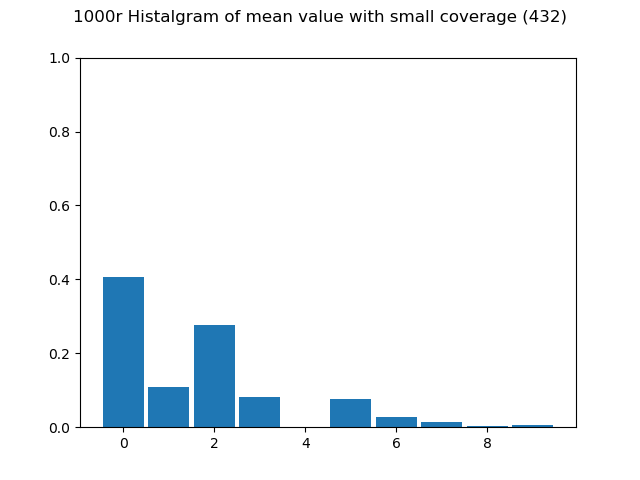
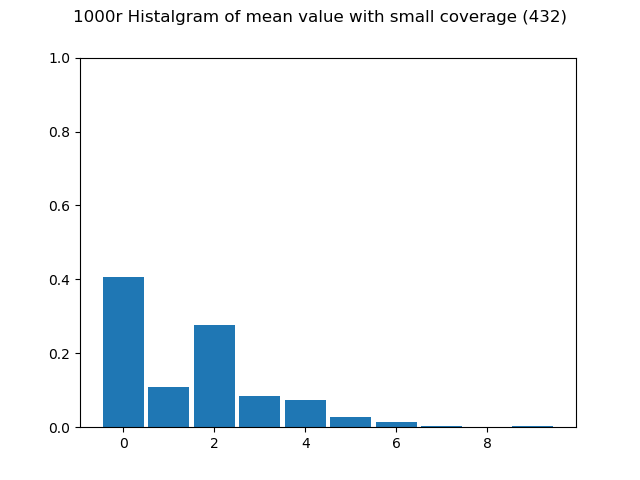
updating code/result

Changed region(s): [[0.4375, 0.8125, 0.7188, 0.9062]]

diff --git a/CI_analyze.py b/CI_analyze.py
@@ -1,8 +1,14 @@
 import numpy as np
 import math
 import random
+from scipy import stats
 from data_processing import*
 from data_processing import loadF
+
+# get variance info from index
+def get_variance_info(l, t, p):
+    var_list = loadF("process_data\\var_f_optVar"+str(p)+".pkl")
+    return var_list[l][t]
 
 # arrange float values into 10 intervals: 0-0.1, 0.1-0.2 ... 0.9-1
 def seperate_to_10(data):
@@ -97,7 +103,7 @@ def check_data(filename):
     print(np.mean(target_vals_list), len(target_vals_list))
 
 # get coverage for every case
-def get_info_coverage(filename):
+def get_info_coverage(filename, info_type):
     true_value_list,target_vals_list,clt_inrange,t_inrange,chi_inrange,f_inrange = loadF(filename)
     coverage_list_clt = np.zeros(1210)
     coverage_list_t   = np.zeros(1210)
@@ -125,35 +131,67 @@ def get_info_coverage(filename):
     overall_cov_f   = np.mean(coverage_list_f)
     print("overall coverage (clt,t,chi,f):",overall_cov_clt,overall_cov_t,overall_cov_chi,overall_cov_f)
     
-    cut_point_clt = np.percentile(coverage_list_clt, 0.49)
-    cut_point_t   = np.percentile(coverage_list_t, 0.49)
-    cut_point_chi = np.percentile(coverage_list_chi, 0.49)
-    cut_point_f   = np.percentile(coverage_list_f, 0.49)
-    
-    print("min of clt,t,chi,f ; 0.5 percentile:")
-    print(min(coverage_list_clt), cut_point_clt)
-    print(min(coverage_list_t), cut_point_t)
-    print(min(coverage_list_chi), cut_point_chi)
-    print(min(coverage_list_f), cut_point_f)
-    
-    ind_list_clt = []
-    ind_list_t   = []
-    ind_list_chi = []
-    ind_list_f   = [] 
-    
-    for i in range(1210):
-        if coverage_list_clt[i] <= cut_point_clt:
-            ind_list_clt.append(i)
-        if coverage_list_t[i] <= cut_point_t:
-            ind_list_t.append(i)
-        if coverage_list_chi[i] <= cut_point_chi:
-            ind_list_chi.append(i)
-        if coverage_list_f[i] <= cut_point_f:
-            ind_list_f.append(i)              
-            
-    print("indlist:",ind_list_clt,ind_list_t,ind_list_chi,ind_list_f)
-    saveF([ind_list_clt,ind_list_t,ind_list_chi,ind_list_f], "ind_"+str(int(len(target_vals_list)/1210))+"r.pkl")
-    print("ind_"+str(int(len(target_vals_list)/1210))+"r.pkl")
+    if info_type == "min":
+        cut_point_clt = np.percentile(coverage_list_clt, 0.49)
+        cut_point_t   = np.percentile(coverage_list_t, 0.49)
+        cut_point_chi = np.percentile(coverage_list_chi, 0.49)
+        cut_point_f   = np.percentile(coverage_list_f, 0.49)
+        
+        print("min of clt,t,chi,f ; 0.5 percentile:")
+        print(min(coverage_list_clt), cut_point_clt)
+        print(min(coverage_list_t), cut_point_t)
+        print(min(coverage_list_chi), cut_point_chi)
+        print(min(coverage_list_f), cut_point_f)
+        
+        ind_list_clt = []
+        ind_list_t   = []
+        ind_list_chi = []
+        ind_list_f   = [] 
+        
+        for i in range(1210):
+            if coverage_list_clt[i] <= cut_point_clt:
+                ind_list_clt.append(i)
+            if coverage_list_t[i] <= cut_point_t:
+                ind_list_t.append(i)
+            if coverage_list_chi[i] <= cut_point_chi:
+                ind_list_chi.append(i)
+            if coverage_list_f[i] <= cut_point_f:
+                ind_list_f.append(i)              
+                
+        print("indlist:",ind_list_clt,ind_list_t,ind_list_chi,ind_list_f)
+        saveF([ind_list_clt,ind_list_t,ind_list_chi,ind_list_f], "ind_"+str(int(len(target_vals_list)/1210))+"r.pkl")
+        print("ind_"+str(int(len(target_vals_list)/1210))+"r.pkl")
+        
+    else:
+        cut_point_clt = np.percentile(coverage_list_clt, 99.5)
+        cut_point_t   = np.percentile(coverage_list_t, 99.5)
+        cut_point_chi = np.percentile(coverage_list_chi, 99.5)
+        cut_point_f   = np.percentile(coverage_list_f, 99.5)
+        
+        print("max of clt,t,chi,f ; 99.5 percentile:")
+        print(max(coverage_list_clt), cut_point_clt)
+        print(max(coverage_list_t), cut_point_t)
+        print(max(coverage_list_chi), cut_point_chi)
+        print(max(coverage_list_f), cut_point_f)
+        
+        ind_list_clt = []
+        ind_list_t   = []
+        ind_list_chi = []
+        ind_list_f   = [] 
+        
+        for i in range(1210):
+            if coverage_list_clt[i] >= cut_point_clt:
+                ind_list_clt.append(i)
+            if coverage_list_t[i] >= cut_point_t:
+                ind_list_t.append(i)
+            if coverage_list_chi[i] >= cut_point_chi:
+                ind_list_chi.append(i)
+            if coverage_list_f[i] >= cut_point_f:
+                ind_list_f.append(i)              
+                
+        print("indlist:",ind_list_clt,ind_list_t,ind_list_chi,ind_list_f)
+        saveF([ind_list_clt,ind_list_t,ind_list_chi,ind_list_f], "ind_"+str(int(len(target_vals_list)/1210))+"r_max.pkl")
+        print("ind_"+str(int(len(target_vals_list)/1210))+"r_max.pkl")        
     
     return
 
@@ -165,7 +203,7 @@ def get_name_from_index(list_ind):
         astar = (list_ind[i]//11)%10
         pi_l = (list_ind[i]//11//10)%11
         str_list.append(str(list_ind[i])+ ' -- l:'+str(pi_l)+', t:'+str(pi_t)+', pastar:'+str(astar))
-    return str_list
+    return str_list, pi_l, pi_t, astar
 
 def analyze_mean(mean_file, ind_file, ind = None):
     mean_list = loadF(mean_file)
@@ -174,18 +212,32 @@ def analyze_mean(mean_file, ind_file, ind = None):
     total_list = list(dict.fromkeys(total_list))    
     mean_list = np.array(mean_list).astype(np.float)
     if ind != None:
-        target_mean_list = mean_list[total_list[ind]]
-        if max(target_mean_list) <= 0.3:
-            print("min and max:", min(target_mean_list),max(target_mean_list))
-            target_mean_list *= 7
+        if ind == "inf":
+            for i in total_list:
+                print("=====================================================")
+                target_mean_list = mean_list[i]
+                # normality
+                print(stats.kstest(target_mean_list,'norm'), len(target_mean_list))
+                print("min and max:", min(target_mean_list),max(target_mean_list))
+                target_mean_list -= min(target_mean_list)
+                target_mean_list /= max(target_mean_list) - min(target_mean_list)
+                [ind_name],l,t,p = get_name_from_index([i])
+                print(ind_name)
+                # get variance
+                variance = get_variance_info(l, t, p)
+                print("variance:", variance)
+                ten_val_list = seperate_to_10(target_mean_list)/len(target_mean_list)
+                plot_hist(str(len(mean_list[0]))+"r Histalgram of mean value with small coverage ("+ind_name[:3]+")", 1, [ten_val_list])   
         else:
+            target_mean_list = mean_list[total_list[ind]]
             print("min and max:", min(target_mean_list),max(target_mean_list))
             target_mean_list -= min(target_mean_list)
             target_mean_list /= max(target_mean_list) - min(target_mean_list)
-        [ind_name] = get_name_from_index([total_list[ind]])
-        print(ind_name)
-        ten_val_list = seperate_to_10(target_mean_list)/len(target_mean_list)
-        plot_hist(str(len(mean_list[0]))+"r Histalgram of mean value with small coverage ("+ind_name[:3]+")", 1, [ten_val_list])
+            [ind_name,l,t,p] = get_name_from_index([total_list[ind]])
+            print(ind_name)
+            ten_val_list = seperate_to_10(target_mean_list)/len(target_mean_list)
+            plot_hist(str(len(mean_list[0]))+"r Histalgram of mean value with small coverage ("+ind_name[:3]+")", 1, [ten_val_list])
+        
     else:
         target_mean_list = np.concatenate(mean_list[total_list])
         print(get_name_from_index(total_list))
@@ -200,13 +252,13 @@ def main():
     #analyze_success("400r_CI_result.pkl")
     #percentage_success("400r_CI_result.pkl")
     #check_data("400r_CI_result1.pkl")
-    get_info_coverage("400r_CI_result.pkl")
+    #get_info_coverage("400r_CI_result.pkl","max")  #this
     #analyze_mean("mean_401r.pkl","ind_401r.pkl")
     #analyze_mean("mean_401r.pkl","ind_401r.pkl",8)
     #analyze_mean("mean_401r.pkl","ind_401r.pkl",7)
     #analyze_mean("mean_401r.pkl","ind_401r.pkl",6)
     #analyze_mean("mean_401r.pkl","ind_401r.pkl",5)
-    analyze_mean("mean_401r.pkl","ind_401r.pkl",4)
+    analyze_mean("mean_401r.pkl","ind_401r.pkl","inf")
     #analyze_mean("mean_401r.pkl","ind_401r.pkl",3)
     #analyze_mean("mean_401r.pkl","ind_401r.pkl",2)
     #analyze_mean("mean_401r.pkl","ind_401r.pkl",1)

diff --git a/CI_util.py b/CI_util.py
@@ -123,3 +123,9 @@ def CI_T(data, alpha = 0.05):
     m, sigma = np.mean(data), np.std(data)
     l , h = scipy.stats.t.interval(1-alpha, n-1, m, sigma/math.sqrt(n))
     return l, h
+
+# get variance info from index
+def get_variance_info(l, t, p):
+    var_list = loadF("process_data\var_f_optVar"+str(p)+".pkl")
+    return var_list[l,t]
+    
